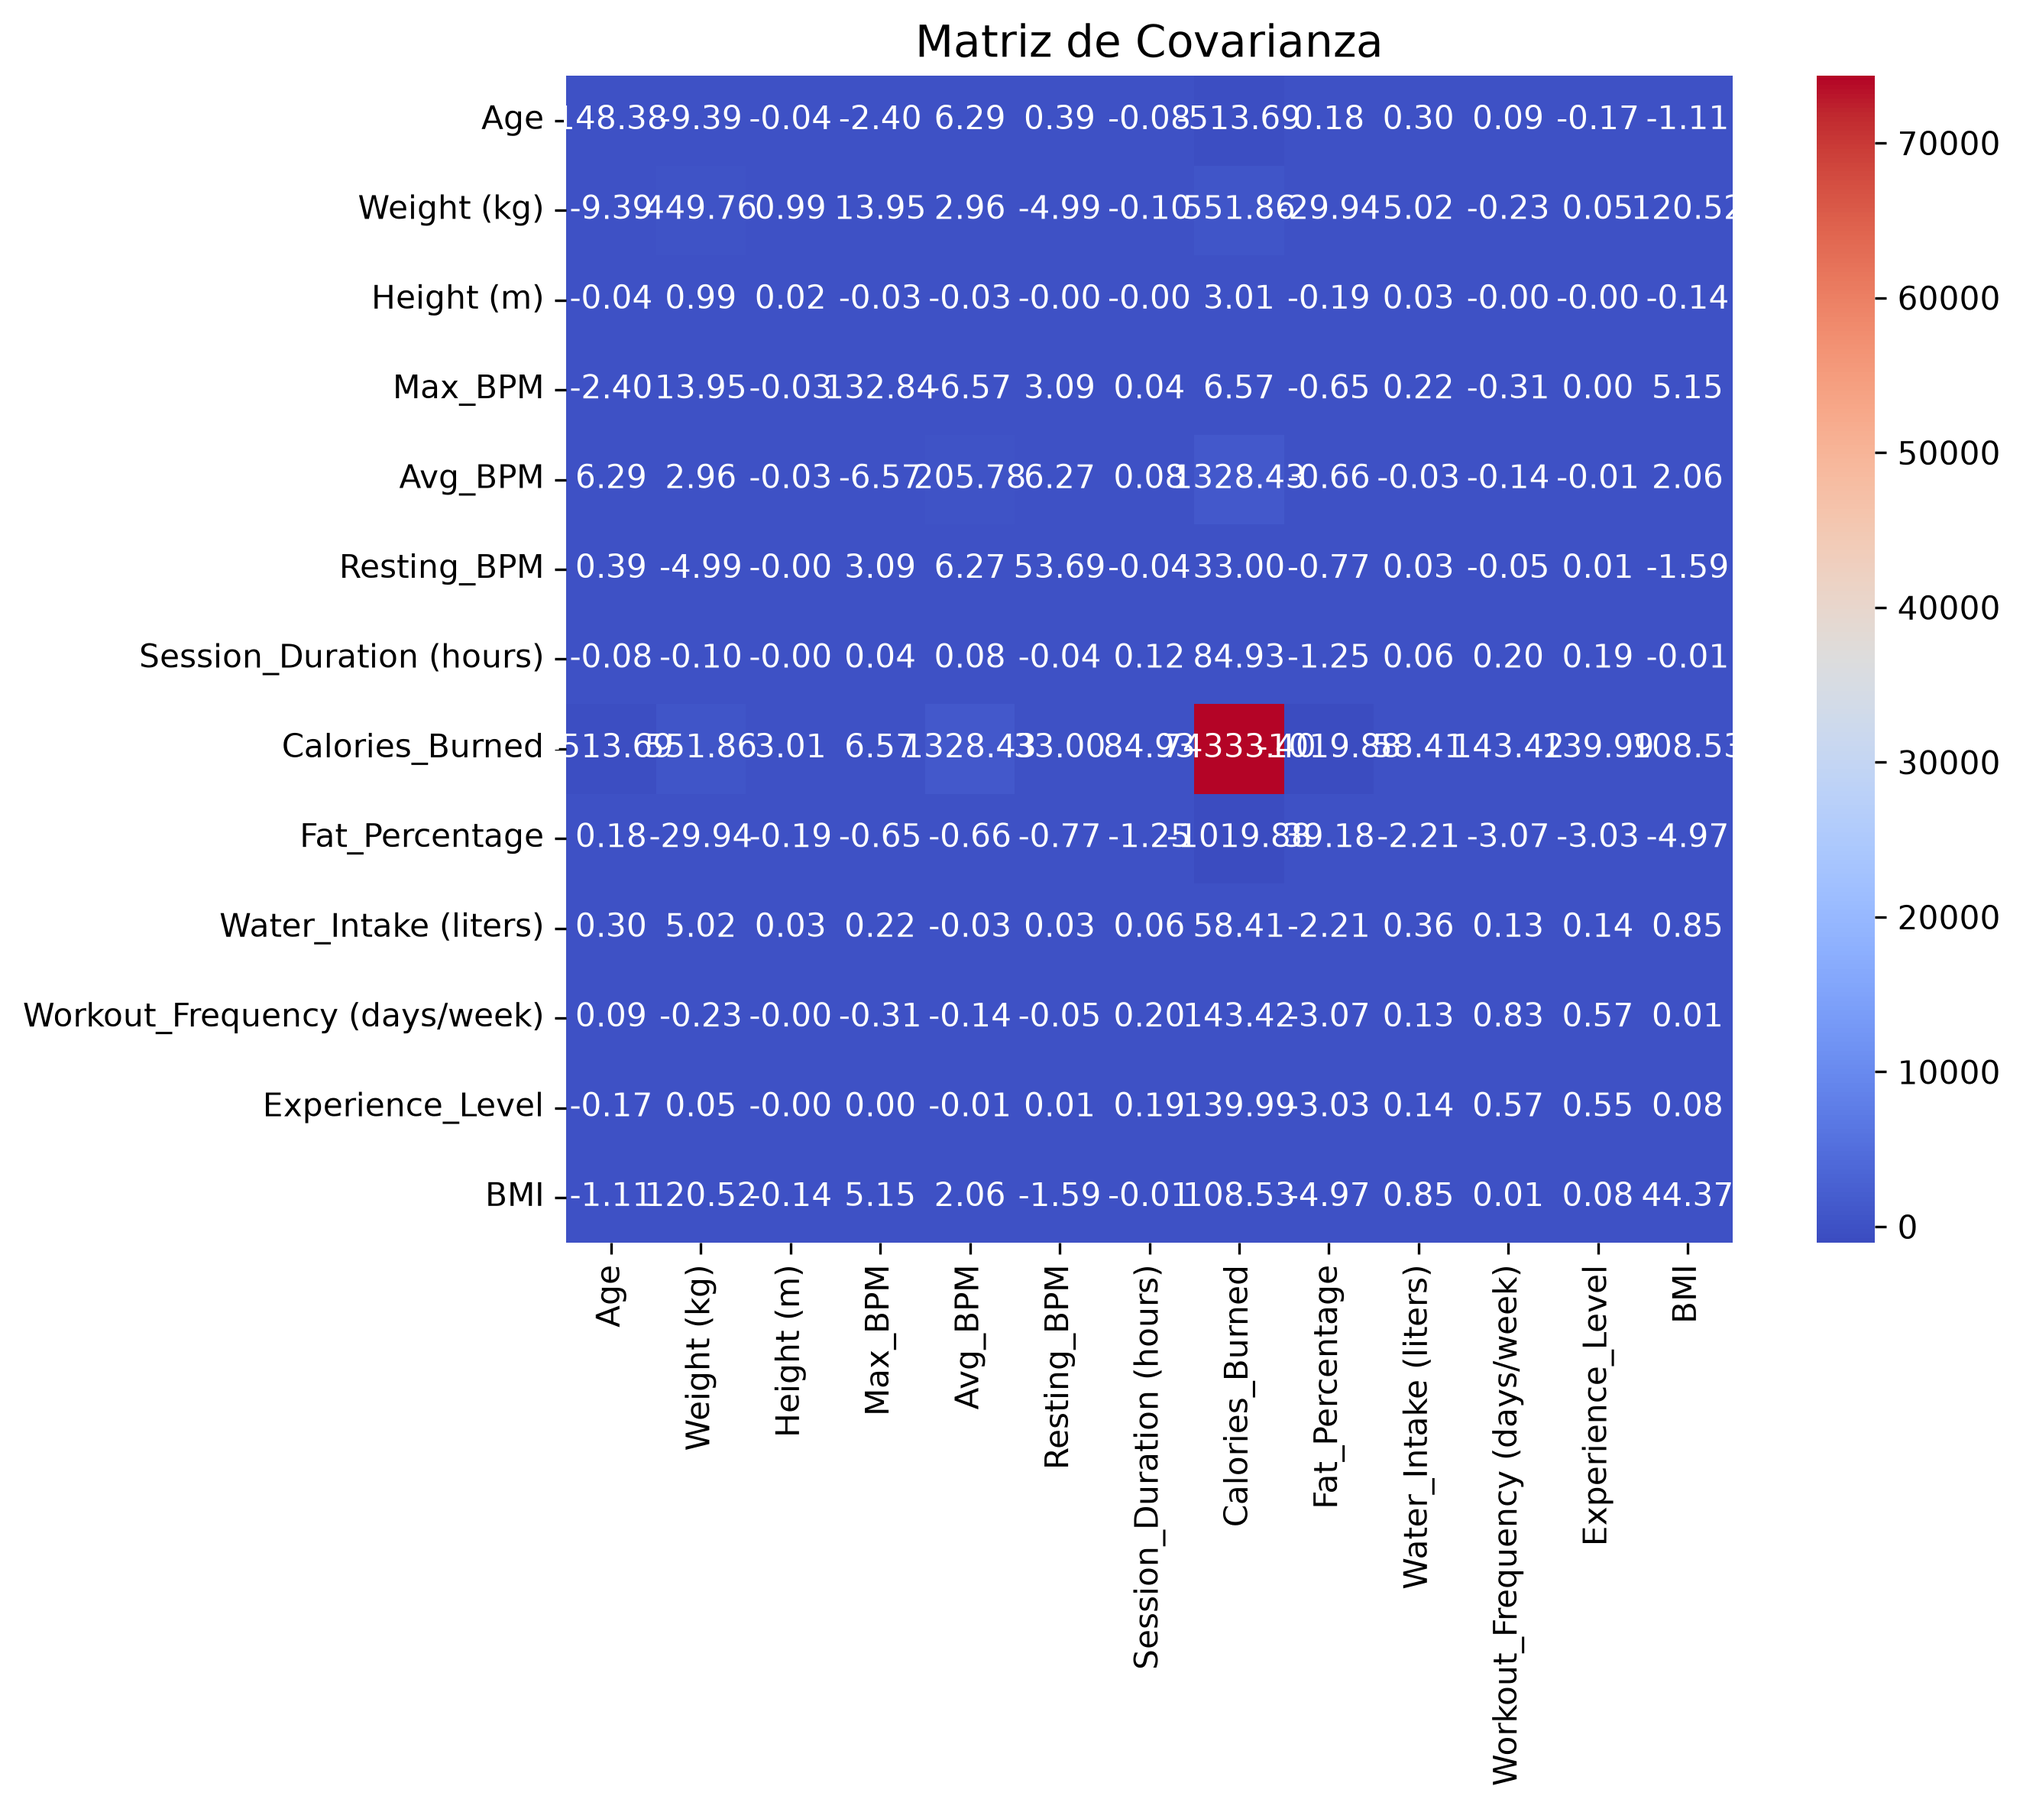
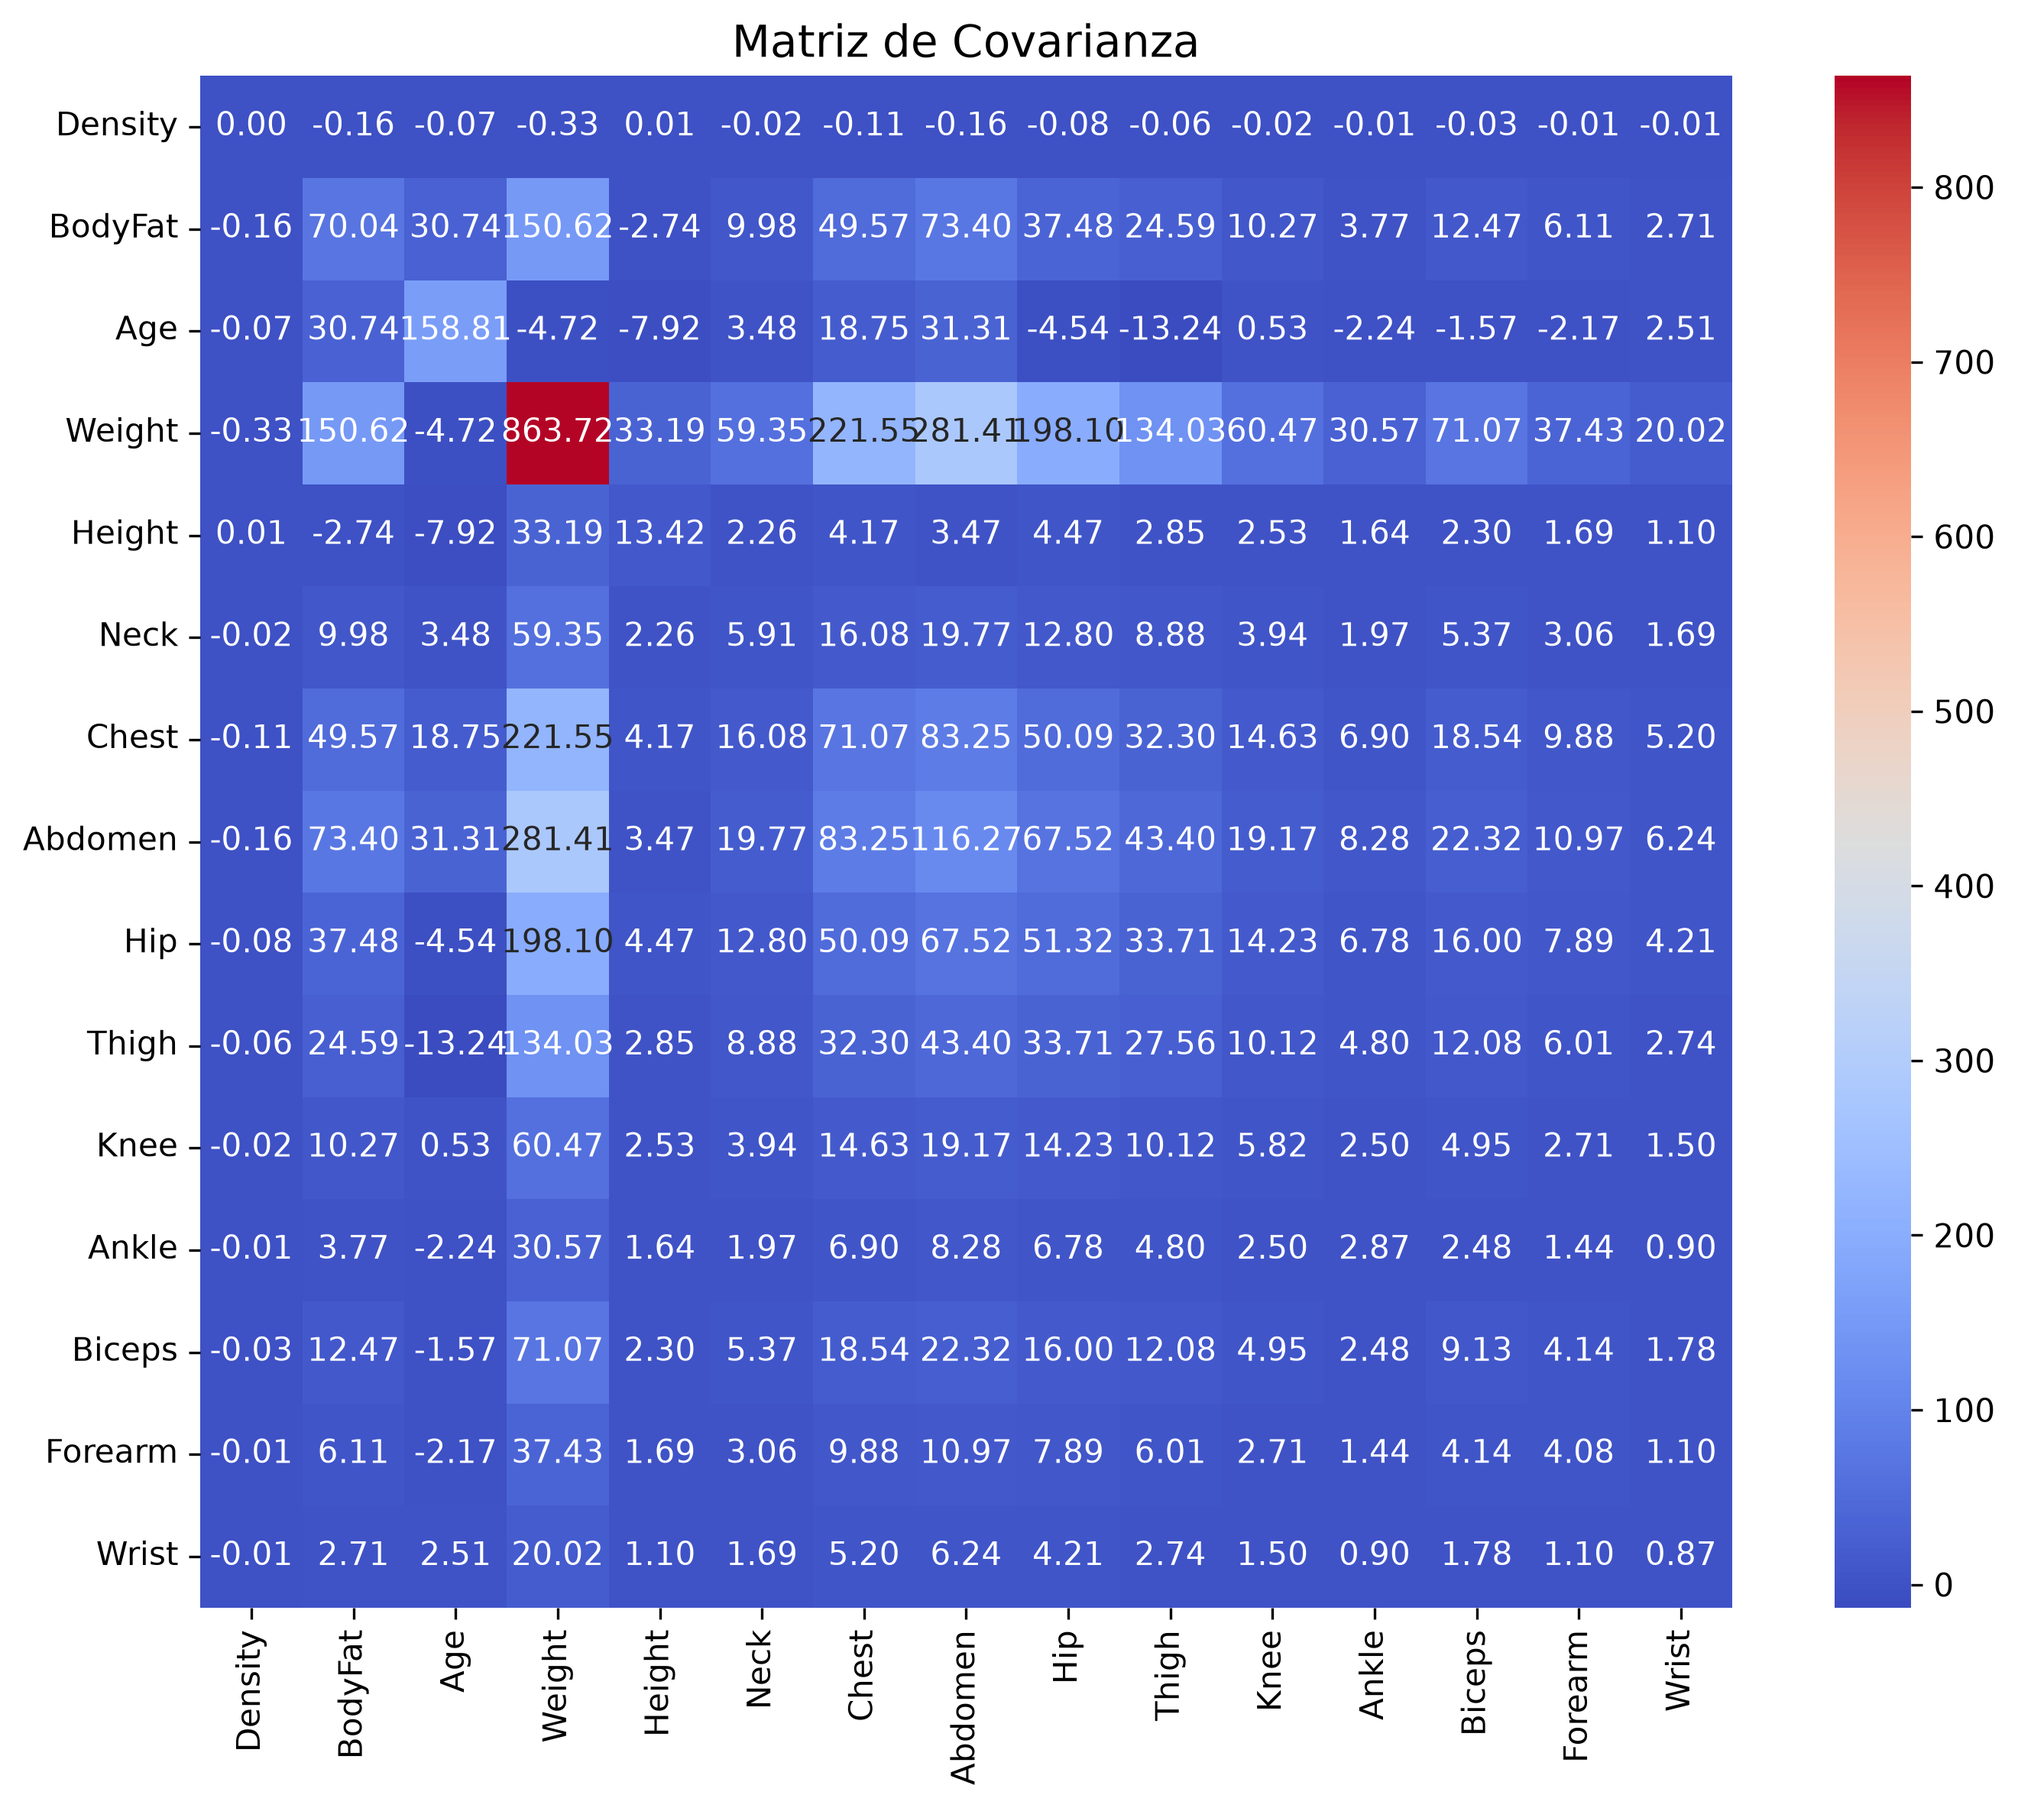
Menu iteractivo con el cliente

diff --git a/main.py b/main.py
@@ -114,11 +114,44 @@ def create_demo_csv(path="data/demo_iris.csv"):
     return str(out)
 
 
+def prompt_interactive():
+    print("\n" + "=" * 52)
+    print("   FRAMEWORK MODULAR DE MACHINE LEARNING")
+    print("=" * 52)
+
+    data_dir = Path("data")
+    available = sorted(
+        [p for p in data_dir.glob("*") if p.suffix.lower() in {".csv", ".tsv", ".parquet"}]
+    ) if data_dir.exists() else []
+
+    if available:
+        print("\nDatasets detectados en 'data/':")
+        for idx, file_p in enumerate(available, start=1):
+            print(f"  [{idx}] {file_p.name}")
+
+    while True:
+        choice = input("\nElige un número o pega la ruta de tu archivo (.csv/.tsv/.parquet): ").strip().strip('"')
+        if choice.isdigit() and 1 <= int(choice) <= len(available):
+            dataset_path = str(available[int(choice) - 1])
+            break
+        if choice and Path(choice).is_file():
+            dataset_path = choice
+            break
+        print("  [!] Archivo no encontrado. Intenta de nuevo.")
+
+    target_input = input("Columna objetivo (presiona Enter para detección automática): ").strip()
+    target_col = target_input if target_input else None
+    return dataset_path, target_col
+
+
 if __name__ == "__main__":
     parser = argparse.ArgumentParser(description="Framework Modular de Machine Learning")
     parser.add_argument("--file", type=str, default=None, help="Ruta al dataset (CSV, TSV o Parquet)")
     parser.add_argument("--target", type=str, default=None, help="Nombre opcional de la columna objetivo")
     args = parser.parse_args()
 
-    dataset_path = args.file if args.file else create_demo_csv()
-    run_pipeline(dataset_path, target_col=args.target)
+    if args.file:
+        run_pipeline(args.file, target_col=args.target)
+    else:
+        dataset_path, target_col = prompt_interactive()
+        run_pipeline(dataset_path, target_col=target_col)
